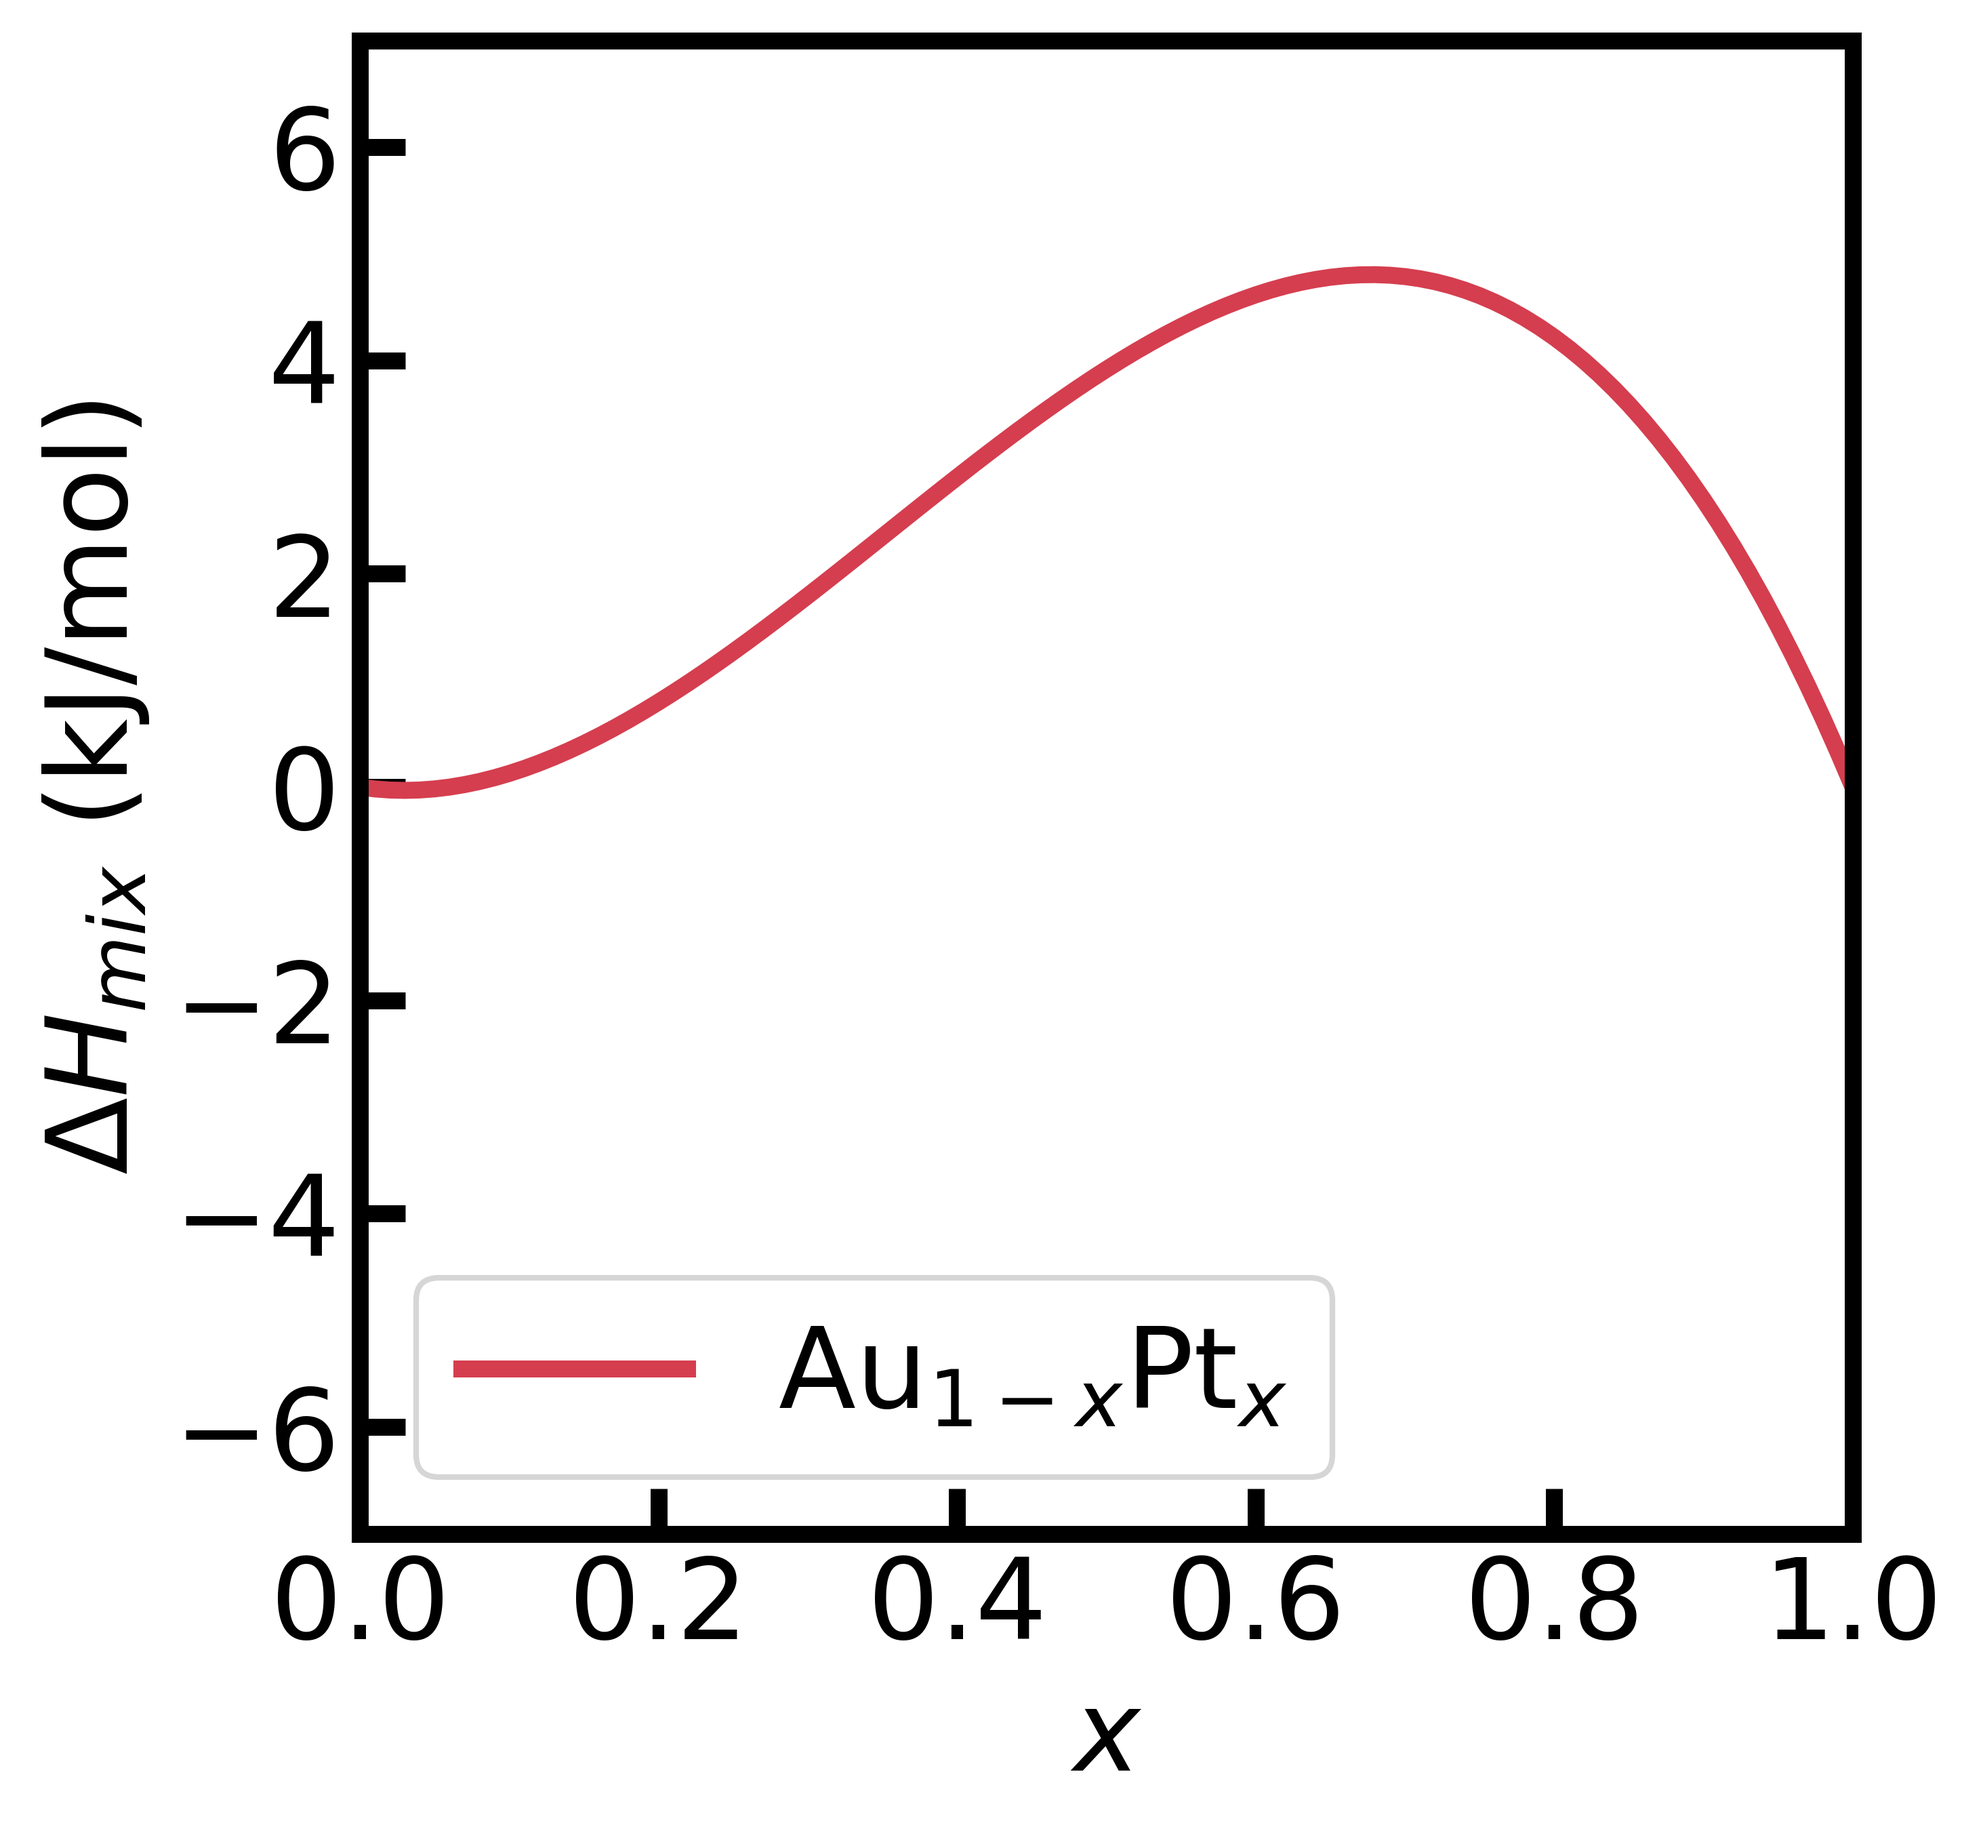
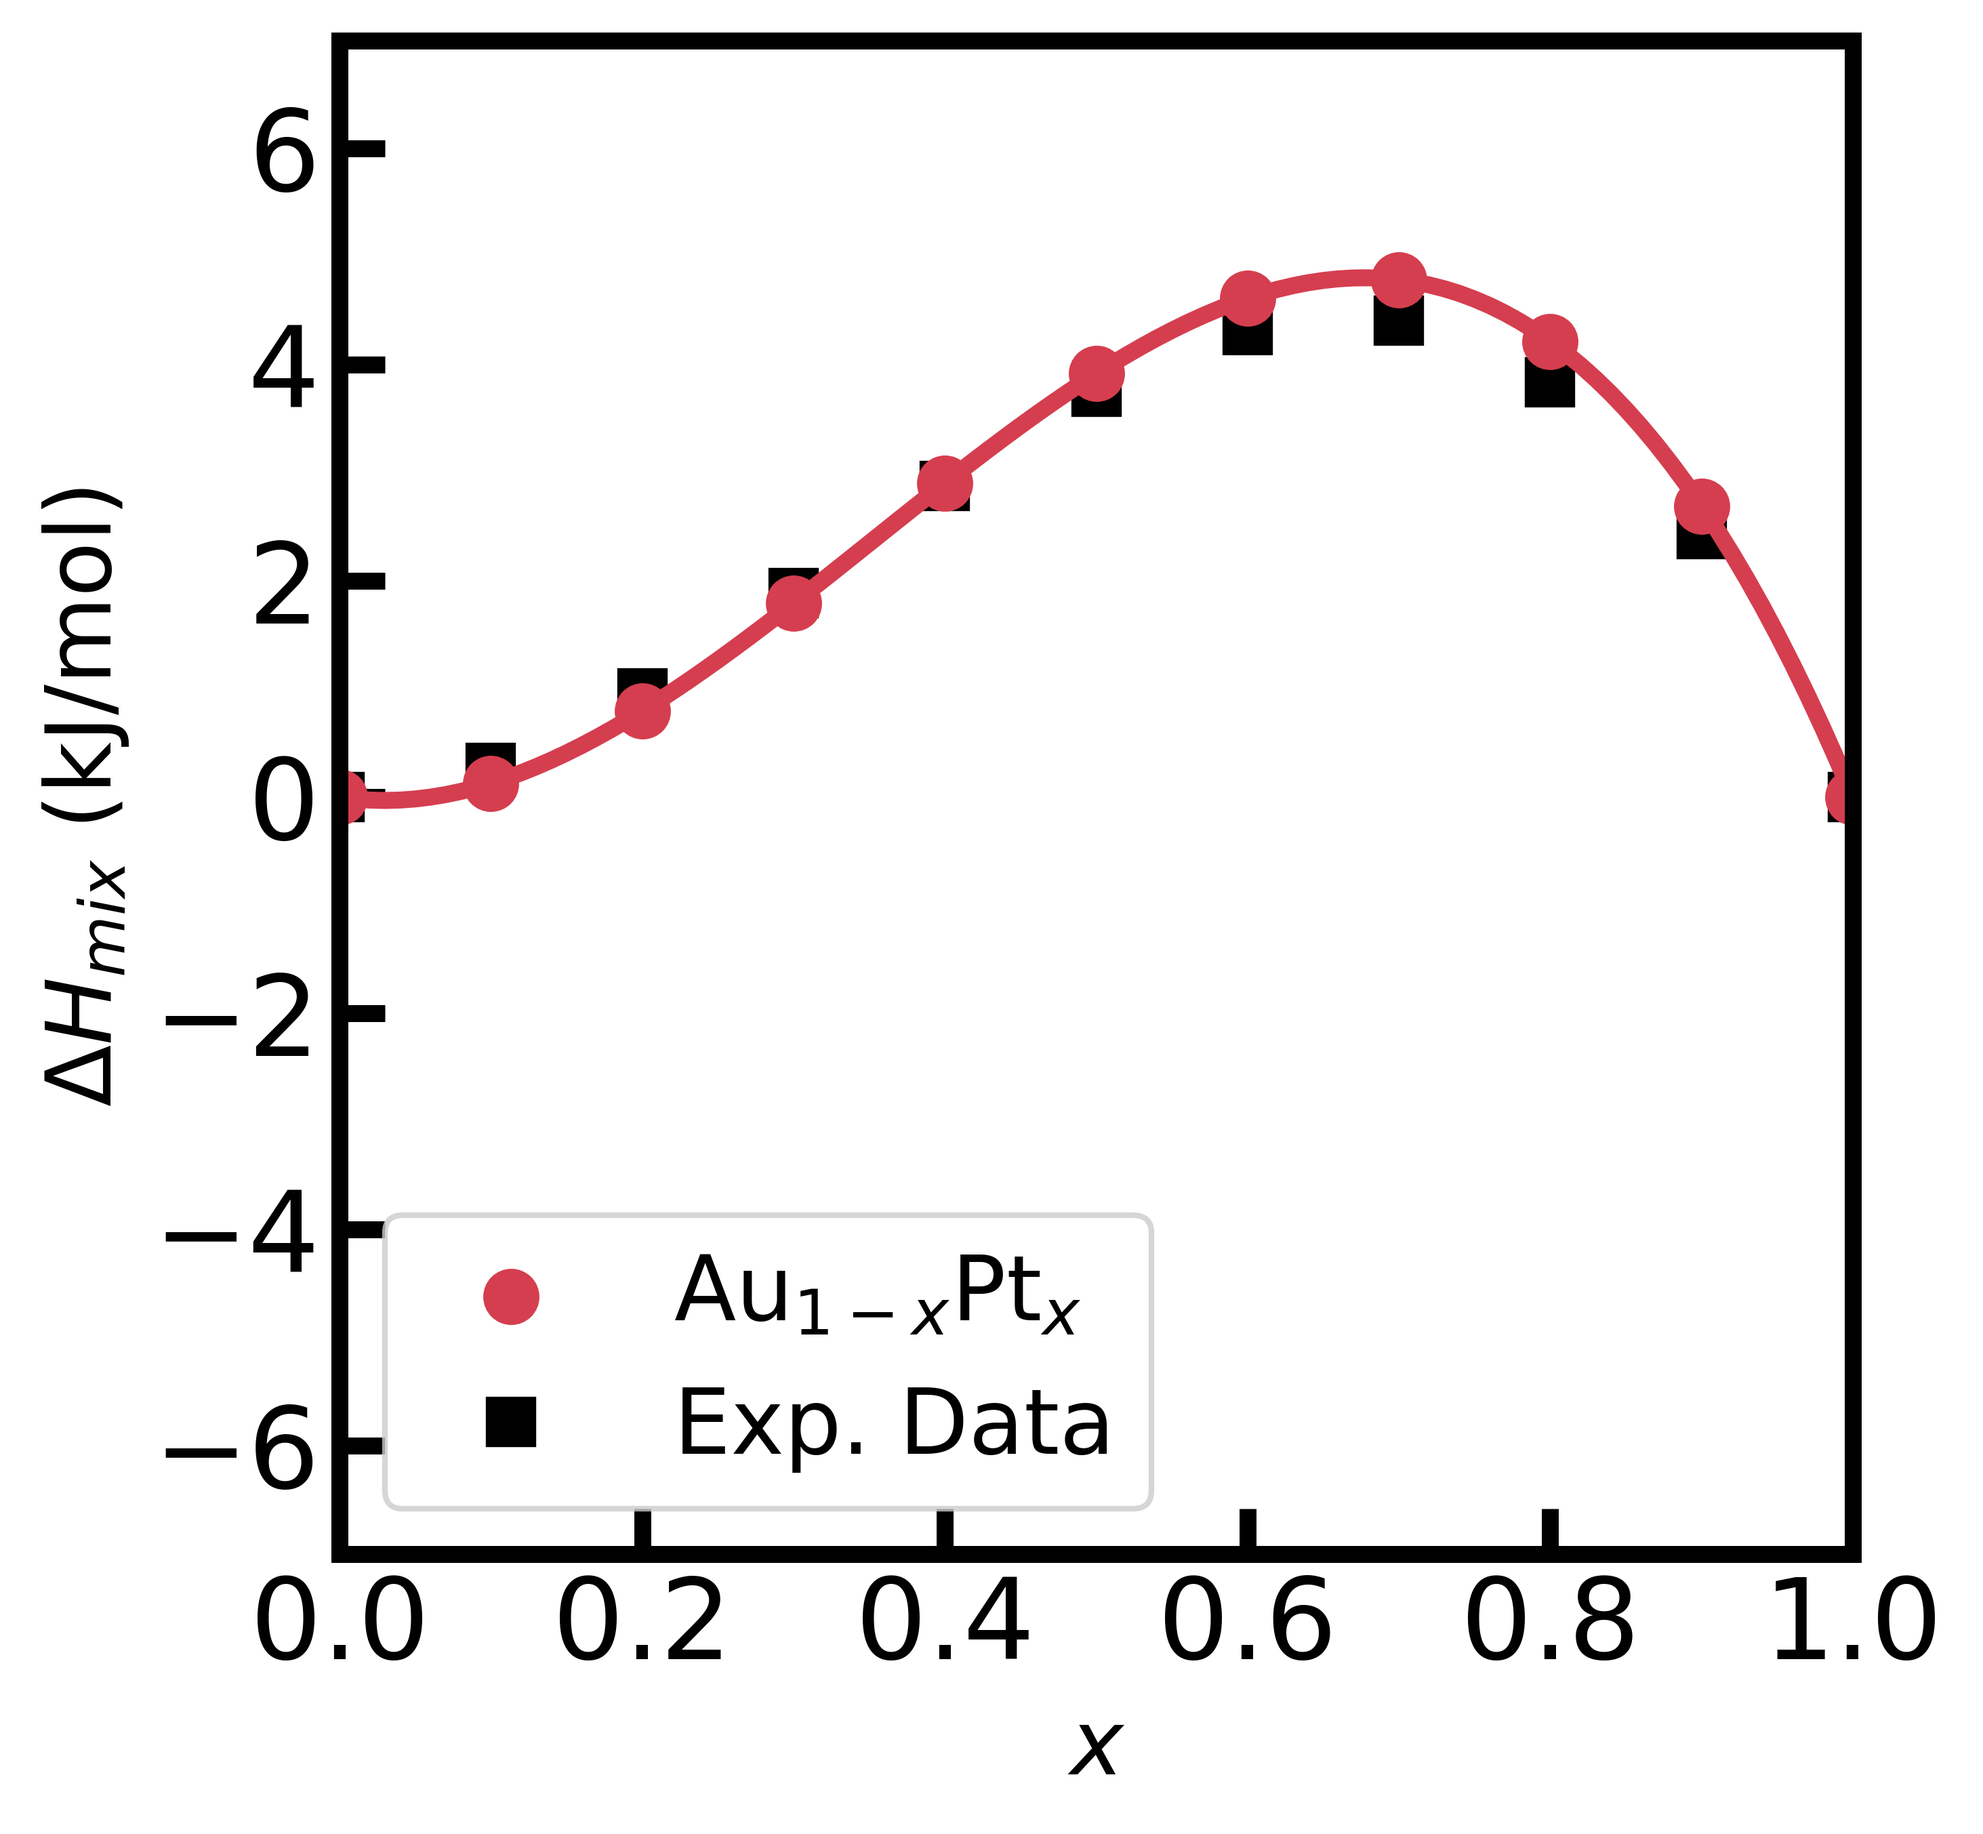
Include exp. data to compare with calculation

diff --git a/README.md b/README.md
@@ -183,6 +183,14 @@ plt.show()
 <p align="center"><a name="fig1">Figure 2</a> - Phase diagram of the Au–Pt alloy computed using the DSI model and MACE interatomic potentials.</p>
 
 
+# Enthalpy of mixing with polymorphism
+
+```python
+
+# TODO: 
+
+```
+
 # License
 
 This is an open source code under [MIT License](LICENSE).
